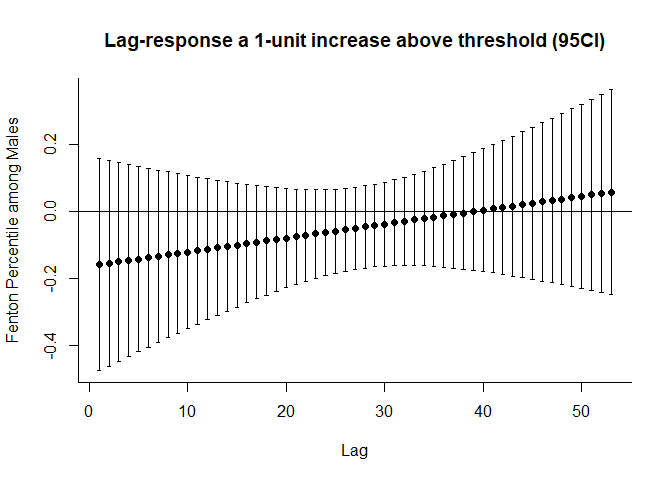
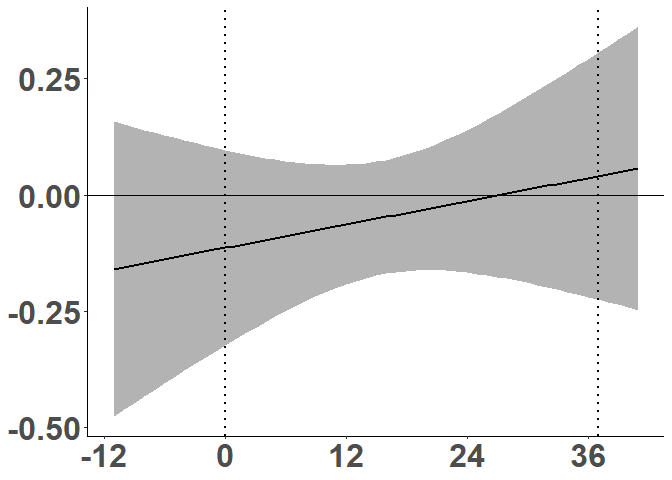
Limited number of plots outputted to console to ggplot figures; uniform order of sex-specific plots

diff --git a/RICHS_PM2.5_DLM.md b/RICHS_PM2.5_DLM.md
@@ -237,7 +237,7 @@ DLM_BWperc_plot<-ggplot(predpmdt, aes(x, y)) +
   scale_x_continuous(breaks=c(0,12,24,36,48),label = c("-12", "0", "12",  "24", "36"))+
   scale_y_continuous(labels = scales::number_format(accuracy = 0.01))+
   #labs(x="Gestational Week",y=bquote(atop("Change in birthweight percentile",
-  #                                        "per 2 ug/" * m^3  ~ "increase in"~PM[2.5])))+
+  #                                        "per 1 ug/" * m^3  ~ "increase in"~PM[2.5])))+
   theme_classic()+
   theme(axis.title = element_blank())+
   theme(axis.text=element_text(size=24,  face="bold"))
@@ -573,12 +573,8 @@ pred1<- crosspred(cb1,model3,ci.level=0.95,at=1:20,cen=0)
 
 
 ###### plot your final prediction var=5, refers to a 1 ug/m3 increase in PM2.5 (basic plot)
-plot(pred1, "slices", var=1, ci="bars", type="p", col=1, pch=19,ci.level=0.95, ylab= "Odds of LGA",main="Lag-response a 1-unit increase above threshold (95CI)")
-```
+#plot(pred1, "slices", var=1, ci="bars", type="p", col=1, pch=19,ci.level=0.95, ylab= "Odds of LGA",main="Lag-response a 1-unit increase above threshold (95CI)")
 
-![](RICHS_PM2.5_DLM_files/figure-gfm/DLMplot_LGA-1.png)<!-- -->
-
-``` r
 ######## plot your final prediction (ggplot2)
 seqlag <-
   function(lag,by=1) seq(from=lag[1],to=lag[2],by=by) 
@@ -612,7 +608,7 @@ DLM_LGA_plot<-ggplot(predpmdt, aes(x, y)) +
 DLM_LGA_plot
 ```
 
-![](RICHS_PM2.5_DLM_files/figure-gfm/DLMplot_LGA-2.png)<!-- -->
+![](RICHS_PM2.5_DLM_files/figure-gfm/DLMplot_LGA-1.png)<!-- -->
 
 ``` r
 pdf("Plots/PM25_DLM_LGA.pdf",width=6,height=6)
@@ -885,12 +881,8 @@ pred1<- crosspred(cb1,model1,ci.level=0.95, cen=0, at=1:20)
 
 ######plot final prediction var=1, refers to a 1 ug/m3 increase in PM2.5 (basic plot)
 
-plot(pred1, "slices", var=1, ci="bars", type="p", col=1, pch=19,ci.level=0.95, ylab= "Fenton Percentile among Males",main="Lag-response a 1-unit increase above threshold (95CI)")
-```
+#plot(pred1, "slices", var=1, ci="bars", type="p", col=1, pch=19,ci.level=0.95, ylab= "Fenton Percentile among Males",main="Lag-response a 1-unit increase above threshold (95CI)")
 
-![](RICHS_PM2.5_DLM_files/figure-gfm/DLM_BWperc_sex-2.png)<!-- -->
-
-``` r
 ######## plot final prediction (ggplot)
 seqlag <-
   function(lag,by=1) seq(from=lag[1],to=lag[2],by=by) 
@@ -925,7 +917,7 @@ ggplot(predpmdt, aes(x, y)) +
 DLM_BWperc_plot_Male
 ```
 
-![](RICHS_PM2.5_DLM_files/figure-gfm/DLM_BWperc_sex-3.png)<!-- -->
+![](RICHS_PM2.5_DLM_files/figure-gfm/DLM_BWperc_sex-2.png)<!-- -->
 
 ``` r
 pdf("Plots/PM25_DLM_F13perc_Male.pdf",width=6,height=6)
@@ -1163,99 +1155,6 @@ LGA_M<-Demo%>%
   mutate(F13Group=factor(F13Group,levels=c("AGA","LGA")))%>%
   filter(Sex=="Male")
 
-###################################### Males
-Q2_M <- as.matrix(LGA_M[,18:ncol(LGA_M)])
-
-mod_M <- list()
- for (i in 1:10) {
-   cbpmi = crossbasis(Q2_M, lag=c(1,53),argvar=list(fun="lin"),
-                      arglag=list(fun="bs",degree=i))
-      mod_M[[i]] <- glm(F13Group~ cbpmi + GestAge+MomAge 
-          +factor(Edu)+factor(Season), data=LGA_M, family=binomial) 
-  }
-names(mod_M) <- paste0("MODEL", 1:10)
-#AIC of models
-aic_models_M = lapply(mod_M, AIC)
-names(aic_models_M) <- paste0("MODEL", 1:10)
-# Choosing the best model based on the lower AIC
-aic_models_M
-# # Summary of the selected model
-#sum_models = llply(mod,summary)
-sum_models_M = lapply(mod_M,summary)
-
-sum_models_M$MODEL1 #1 degrees of freedom
-
-cb1 = crossbasis(Q2_M, lag=c(1,53),argvar=list(fun="lin"),
-                      arglag=list(fun="bs",degree=1))
-
-
-model1  <- glm(F13Group~ cb1 + GestAge+MomAge 
-          +factor(Edu)+factor(Season), data=LGA_M, family=binomial)
-
-
-#####your final prediction 
-pred1<- crosspred(cb1,model1,ci.level=0.95,cen=0,at=1:20)
-
-######plot your final prediction var=1, refers to a 1 ug/m3 increase in PM2.5 (basic plot)
-
-#plot(pred1, "slices", var=1, ci="bars", type="p", col=1, pch=19,ci.level=0.95, ylab= "Odds of LGA among males",main="Lag-response a 1-unit increase above threshold (95CI)")
-######## plot your final prediction (ggplot2)
-seqlag <-
-  function(lag,by=1) seq(from=lag[1],to=lag[2],by=by) 
-xvar <- as.character(1)
-
-# store predictions into a data.frame
-predpmdt <- data.table(x=seqlag(pred1$lag, pred1$bylag),
-                       y=pred1$matRRfit[xvar[1],],
-                       high=pred1$matRRhigh[xvar[1],],
-                       # this is the lower bound of the CI 
-                       low=pred1$matRRlow [xvar[1],])
-
-pred1$ci
-
-predpmdt[, range(which(low > 0))]
-mycibounds <- data.table(x = predpmdt[, range(which(low > 0))] - 1)
-
-DLM_LGA_male_plot<-ggplot(predpmdt, aes(x, y)) + 
-  geom_ribbon(aes(ymin = low, ymax = high), fill = "grey70") + 
-  geom_line(color="black", size=1) + 
-  geom_vline(xintercept = c(12,49), linetype="dotted", 
-                color = "black", size=1)+
-  geom_hline(yintercept = 1, color = "black")+  
-  scale_x_continuous(breaks=c(0,12,24,36,48),label = c("-12", "0", "12",  "24", "36"))+
-  scale_y_continuous(labels = scales::number_format(accuracy = 0.01))+
-  theme_classic()+
-  theme(
-  axis.title = element_blank())+
-  theme(axis.text=element_text(size=24,  face="bold"))
-DLM_LGA_male_plot
-```
-
-![](RICHS_PM2.5_DLM_files/figure-gfm/DLM_LGA_sex-1.png)<!-- -->
-
-``` r
-pdf("Plots/PM25_DLM_LGA_Males.pdf",width=6,height=6)
-DLM_LGA_male_plot
-dev.off()
-
-#print out predictions
-#The overall cumulative effect of a 1-unit increase in PM2.5 over total lag period (i.e.
-#summing all the contributions up to the maximum lag)
-pred1<- crosspred(cb1,model1,ci.level=0.95, at=1) #at = unit increase
-with(pred1, c(allRRfit,allRRlow,allRRhigh))
-#        1         1         1 
-#1.0588411 0.6813273 1.6455301 
-
-prd<-with(pred1, c(matRRfit))
-prdlow<-with(pred1, c(matRRlow))
-prdhigh<-with(pred1, c(matRRhigh))
-
-prd_all<-as.data.frame(cbind(RiskR=round(prd,2),RRlow=round(prdlow,2),RRhigh=round(prdhigh,2)))
-prd_all$week<-c(paste0('pre',rev(1:12)),0:40)
-
-write.csv(prd_all, file = "Data/PM25_DLM_LGA_Males_predfit.csv",row.names=FALSE)
-
-
 ###################################### Females
 Q2_F <- as.matrix(LGA_F[,18:ncol(LGA_F)])
 
@@ -1325,7 +1224,7 @@ DLM_LGA_female_plot<-ggplot(predpmdt, aes(x, y)) +
 DLM_LGA_female_plot
 ```
 
-![](RICHS_PM2.5_DLM_files/figure-gfm/DLM_LGA_sex-2.png)<!-- -->
+![](RICHS_PM2.5_DLM_files/figure-gfm/DLM_LGA_sex-1.png)<!-- -->
 
 ``` r
 pdf("Plots/PM25_DLM_LGA_Females.pdf",width=6,height=6)
@@ -1348,4 +1247,95 @@ prd_all<-as.data.frame(cbind(RiskR=round(prd,2),RRlow=round(prdlow,2),RRhigh=rou
 prd_all$week<-c(paste0('pre',rev(1:12)),0:40)
 
 write.csv(prd_all, file = "Data/PM25_DLM_LGA_Females_predfit.csv",row.names=FALSE)
+###################################### Males
+Q2_M <- as.matrix(LGA_M[,18:ncol(LGA_M)])
+
+mod_M <- list()
+ for (i in 1:10) {
+   cbpmi = crossbasis(Q2_M, lag=c(1,53),argvar=list(fun="lin"),
+                      arglag=list(fun="bs",degree=i))
+      mod_M[[i]] <- glm(F13Group~ cbpmi + GestAge+MomAge 
+          +factor(Edu)+factor(Season), data=LGA_M, family=binomial) 
+  }
+names(mod_M) <- paste0("MODEL", 1:10)
+#AIC of models
+aic_models_M = lapply(mod_M, AIC)
+names(aic_models_M) <- paste0("MODEL", 1:10)
+# Choosing the best model based on the lower AIC
+aic_models_M
+# # Summary of the selected model
+#sum_models = llply(mod,summary)
+sum_models_M = lapply(mod_M,summary)
+
+sum_models_M$MODEL1 #1 degrees of freedom
+
+cb1 = crossbasis(Q2_M, lag=c(1,53),argvar=list(fun="lin"),
+                      arglag=list(fun="bs",degree=1))
+
+
+model1  <- glm(F13Group~ cb1 + GestAge+MomAge 
+          +factor(Edu)+factor(Season), data=LGA_M, family=binomial)
+
+
+#####your final prediction 
+pred1<- crosspred(cb1,model1,ci.level=0.95,cen=0,at=1:20)
+
+######plot your final prediction var=1, refers to a 1 ug/m3 increase in PM2.5 (basic plot)
+
+#plot(pred1, "slices", var=1, ci="bars", type="p", col=1, pch=19,ci.level=0.95, ylab= "Odds of LGA among males",main="Lag-response a 1-unit increase above threshold (95CI)")
+######## plot your final prediction (ggplot2)
+seqlag <-
+  function(lag,by=1) seq(from=lag[1],to=lag[2],by=by) 
+xvar <- as.character(1)
+
+# store predictions into a data.frame
+predpmdt <- data.table(x=seqlag(pred1$lag, pred1$bylag),
+                       y=pred1$matRRfit[xvar[1],],
+                       high=pred1$matRRhigh[xvar[1],],
+                       # this is the lower bound of the CI 
+                       low=pred1$matRRlow [xvar[1],])
+
+pred1$ci
+
+predpmdt[, range(which(low > 0))]
+mycibounds <- data.table(x = predpmdt[, range(which(low > 0))] - 1)
+
+DLM_LGA_male_plot<-ggplot(predpmdt, aes(x, y)) + 
+  geom_ribbon(aes(ymin = low, ymax = high), fill = "grey70") + 
+  geom_line(color="black", size=1) + 
+  geom_vline(xintercept = c(12,49), linetype="dotted", 
+                color = "black", size=1)+
+  geom_hline(yintercept = 1, color = "black")+  
+  scale_x_continuous(breaks=c(0,12,24,36,48),label = c("-12", "0", "12",  "24", "36"))+
+  scale_y_continuous(labels = scales::number_format(accuracy = 0.01))+
+  theme_classic()+
+  theme(
+  axis.title = element_blank())+
+  theme(axis.text=element_text(size=24,  face="bold"))
+DLM_LGA_male_plot
+```
+
+![](RICHS_PM2.5_DLM_files/figure-gfm/DLM_LGA_sex-2.png)<!-- -->
+
+``` r
+pdf("Plots/PM25_DLM_LGA_Males.pdf",width=6,height=6)
+DLM_LGA_male_plot
+dev.off()
+
+#print out predictions
+#The overall cumulative effect of a 1-unit increase in PM2.5 over total lag period (i.e.
+#summing all the contributions up to the maximum lag)
+pred1<- crosspred(cb1,model1,ci.level=0.95, at=1) #at = unit increase
+with(pred1, c(allRRfit,allRRlow,allRRhigh))
+#        1         1         1 
+#1.0588411 0.6813273 1.6455301 
+
+prd<-with(pred1, c(matRRfit))
+prdlow<-with(pred1, c(matRRlow))
+prdhigh<-with(pred1, c(matRRhigh))
+
+prd_all<-as.data.frame(cbind(RiskR=round(prd,2),RRlow=round(prdlow,2),RRhigh=round(prdhigh,2)))
+prd_all$week<-c(paste0('pre',rev(1:12)),0:40)
+
+write.csv(prd_all, file = "Data/PM25_DLM_LGA_Males_predfit.csv",row.names=FALSE)
 ```
